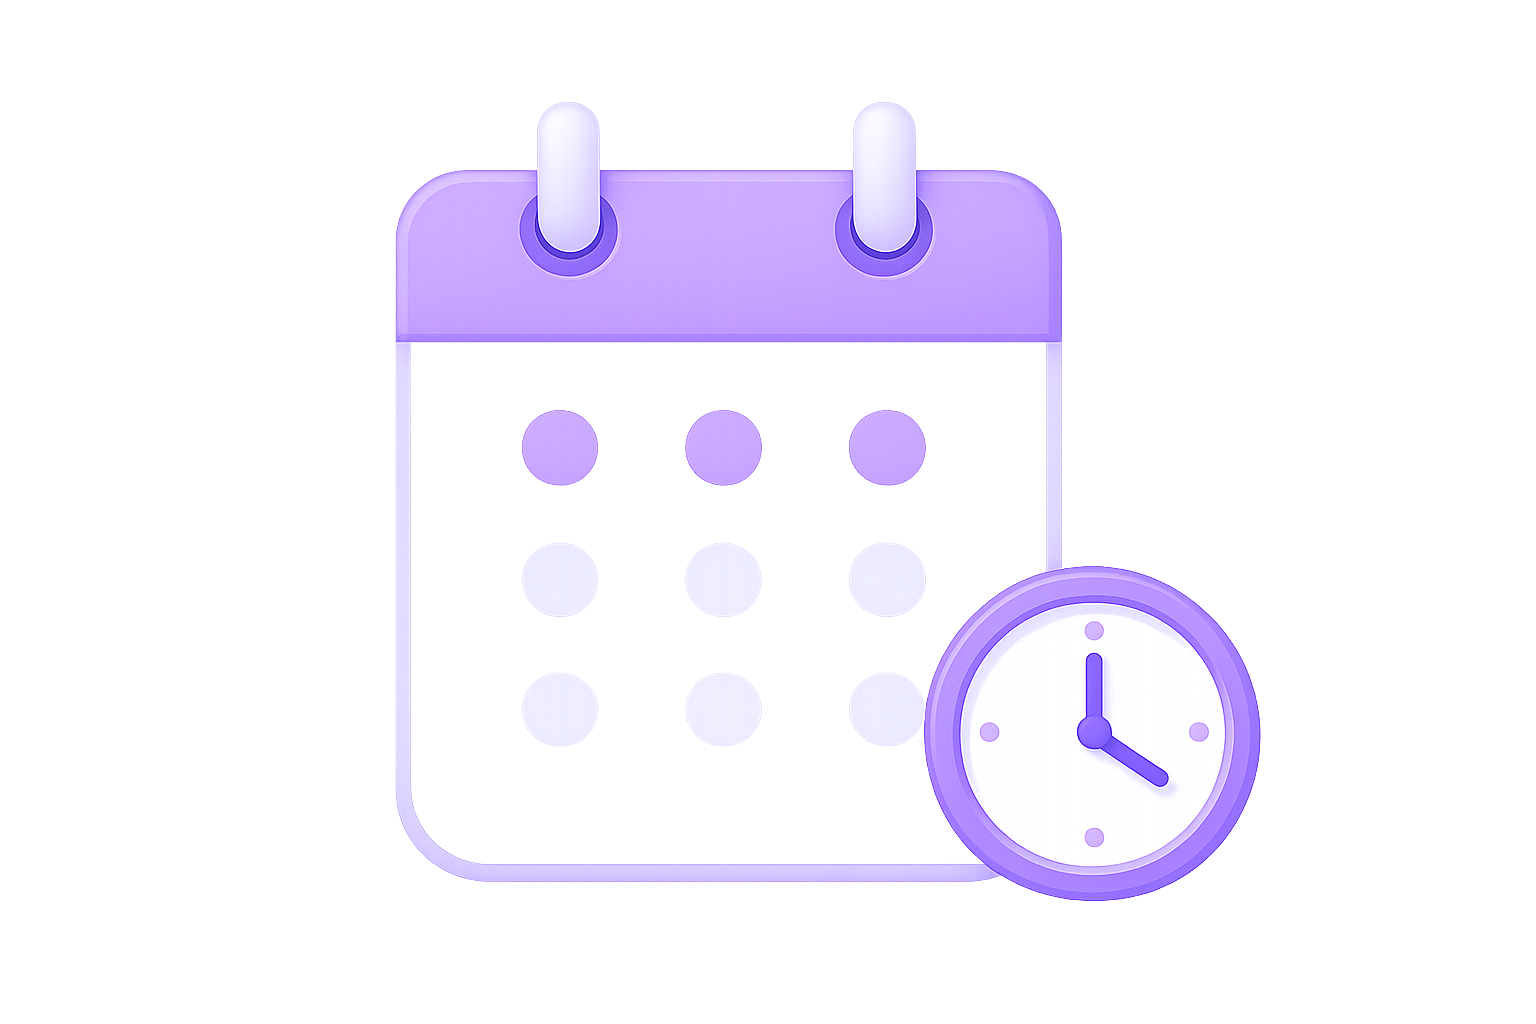
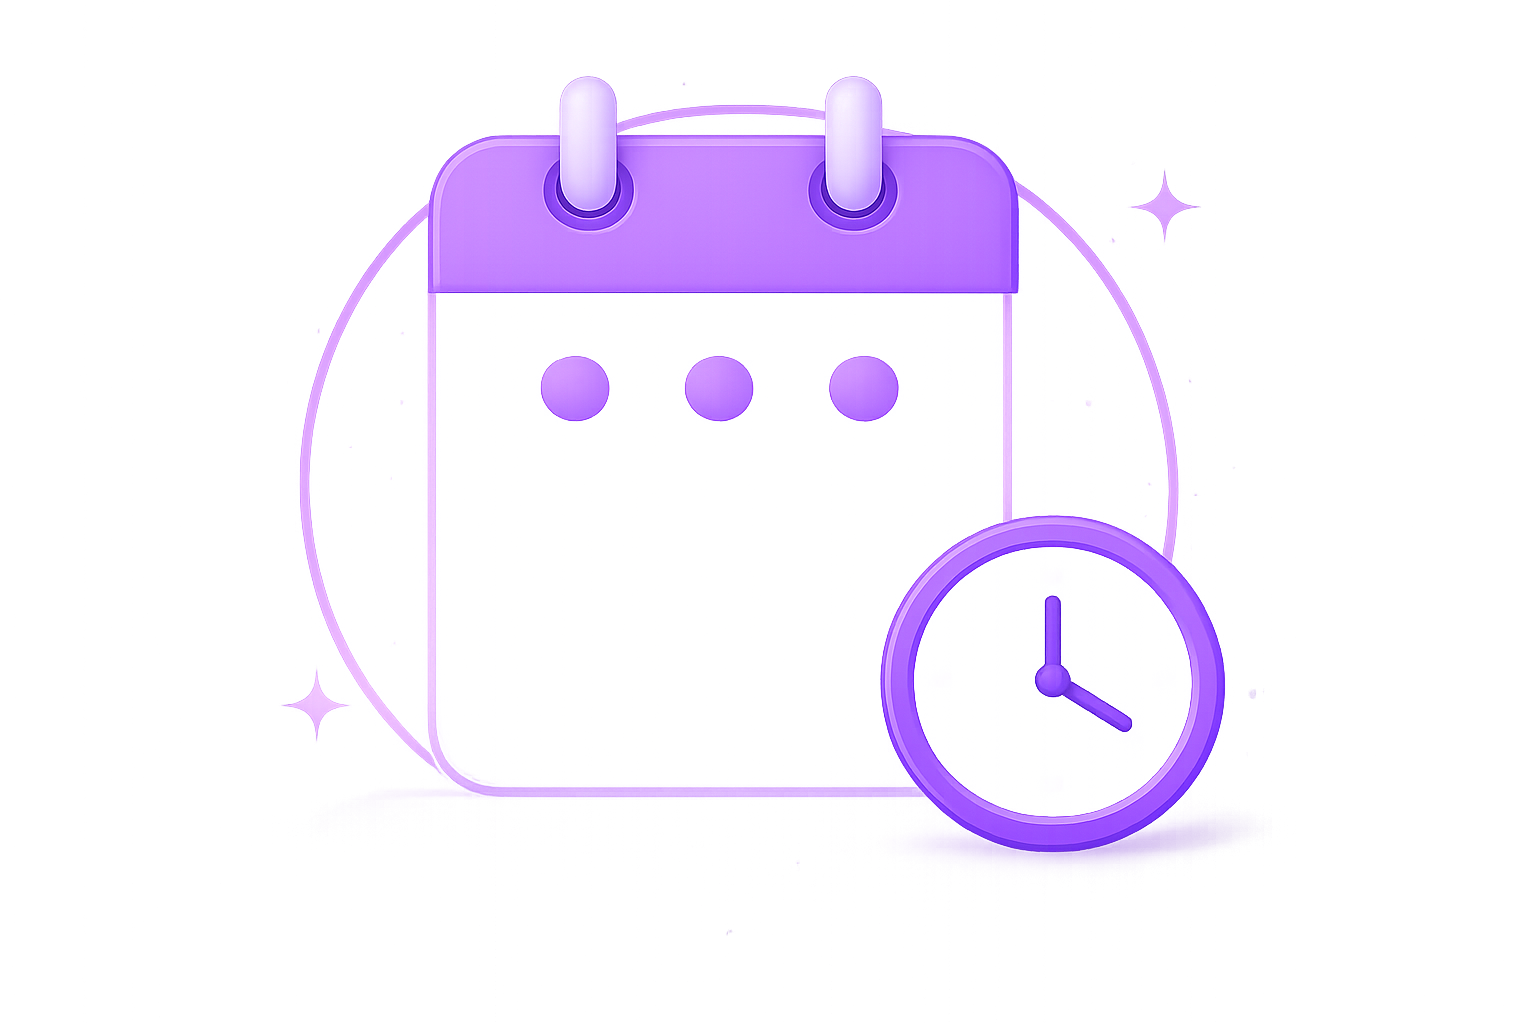
Fix the button

Changed region(s): [[0.1875, 0.0625, 0.8438, 0.9062], [0.75, 0.1875, 0.7812, 0.2188]]

diff --git a/src/screens/home/styles/EmptyLatestScreeningCard.ts b/src/screens/home/styles/EmptyLatestScreeningCard.ts
@@ -1,0 +1,33 @@
+// styles/HomeScreening.styles.ts
+import { StyleSheet } from 'react-native';
+
+import { Colors } from '../../../theme/colors';
+import { Spacing } from '../../../theme/spacing';
+
+export const emptyScreeningStyles = StyleSheet.create({
+  emptyScheduleImage: { width: 150, height: 150 },
+  emptyScreeningCard: {
+    marginBottom: Spacing.md,
+    overflow: 'hidden',
+    padding: Spacing.md,
+    color: '',
+  },
+  emptyScreeningBodyView: { flexDirection: 'row', justifyContent: 'space-between', alignItems: 'flex-start' },
+  welcomeText: { fontSize: 18, fontWeight: '700', marginBottom: 10 },
+  subtitleWelcomeText: { fontSize: 13, marginBottom: 10 },
+  arrowText: { color: '#fff', fontSize:25 },
+  learnHowItWorksText: { color: '#fff', fontWeight: '700', fontSize: 14 },
+  clinicNotificationText: { fontSize: 13, marginBottom: 16 },
+  arrowCircle: { backgroundColor: 'rgba(255,255,255,0.25)', height: 20, width: 20, borderRadius: 40, padding: 4, justifyContent: 'center', alignItems: 'center', alignContent: 'center' },
+  learnHowItWorksButton: {
+              backgroundColor: Colors.navyDark,
+              borderRadius: 30,
+              paddingVertical: 8,
+              paddingHorizontal: 20,
+              flexDirection: 'row',
+              alignItems: 'center',
+              alignSelf: 'flex-start',
+              gap: 15,
+            },
+
+});

diff --git a/src/screens/home/components/EmptyLatestScreeningCard.tsx b/src/screens/home/components/EmptyLatestScreeningCard.tsx
@@ -6,64 +6,55 @@ import Card from '../../../components/Card';
 import { AppImages } from '../../../constants';
 import { useTranslation } from '../../../hooks/useTranslation';
 import { useTheme } from '../../../theme';
-import { screeningStyles } from '../styles/HomeScreening.styles';
+import { emptyScreeningStyles } from '../styles/EmptyLatestScreeningCard';
 
 export default function EmptyLatestScreeningCard() {
   const theme = useTheme();
   const { t } = useTranslation();
 
   return (
-    <Card elevated style={screeningStyles.eyeCareJourneyCard}>
+    <Card elevated style={emptyScreeningStyles.emptyScreeningCard}>
       <View
-        style={{ flexDirection: 'row', justifyContent: 'space-between', alignItems: 'flex-start' }}
+        style={emptyScreeningStyles.emptyScreeningBodyView}
       >
         <View style={{ flex: 1, paddingRight: 12 }}>
           <AppText
             variant="subtitle"
             color={theme.colors.text}
-            style={{ fontSize: 18, fontWeight: '700', marginBottom: 10 }}
+            style={emptyScreeningStyles.welcomeText}
           >
             {t('home.welcomeText')} 👋
           </AppText>
           <AppText
             variant="body"
             color={theme.colors.textMuted}
-            style={{ fontSize: 13, marginBottom: 10 }}
+            style={emptyScreeningStyles.subtitleWelcomeText}
           >
             {t('home.subtitleWelcomeText')}
           </AppText>
           <AppText
             variant="body"
             color={theme.colors.textMuted}
-            style={{ fontSize: 13, marginBottom: 16 }}
+            style={emptyScreeningStyles.clinicNotificationText}
           >
             {t('home.clinicNotification')}
           </AppText>
           <TouchableOpacity
-            style={{
-              backgroundColor: theme.colors.primary,
-              borderRadius: 30,
-              paddingVertical: 12,
-              paddingHorizontal: 20,
-              flexDirection: 'row',
-              alignItems: 'center',
-              alignSelf: 'flex-start',
-              gap: 8,
-            }}
+            style={emptyScreeningStyles.learnHowItWorksButton}
           >
-            <AppText style={{ color: '#fff', fontWeight: '700', fontSize: 14 }}>
+            <AppText style={emptyScreeningStyles.learnHowItWorksText}>
               {t('home.learnHowItWorks')}
             </AppText>
             <View
-              style={{ backgroundColor: 'rgba(255,255,255,0.25)', borderRadius: 99, padding: 4 }}
+              style={emptyScreeningStyles.arrowCircle}
             >
-              <AppText style={{ color: '#fff' }}>›</AppText>
+              <AppText style={emptyScreeningStyles.arrowText}>›</AppText>
             </View>
           </TouchableOpacity>
         </View>
         <AppImage
           source={AppImages.emptySchedule}
-          containerStyle={{ width: 130, height: 150 }}
+          containerStyle={emptyScreeningStyles.emptyScheduleImage}
           contentFit="contain"
           showLoader={false}
         />

diff --git a/src/application/appoinments/FetchAppoinment.ts b/src/application/appoinments/FetchAppoinment.ts
@@ -1,7 +1,7 @@
 import { ENV } from '../../config/env';
 
 export const fetchAppoinments = async () => {
-  if (ENV !== 'mock') {
+  if (ENV === 'mock') {
     throw new Error('Not implemented');
   }
 